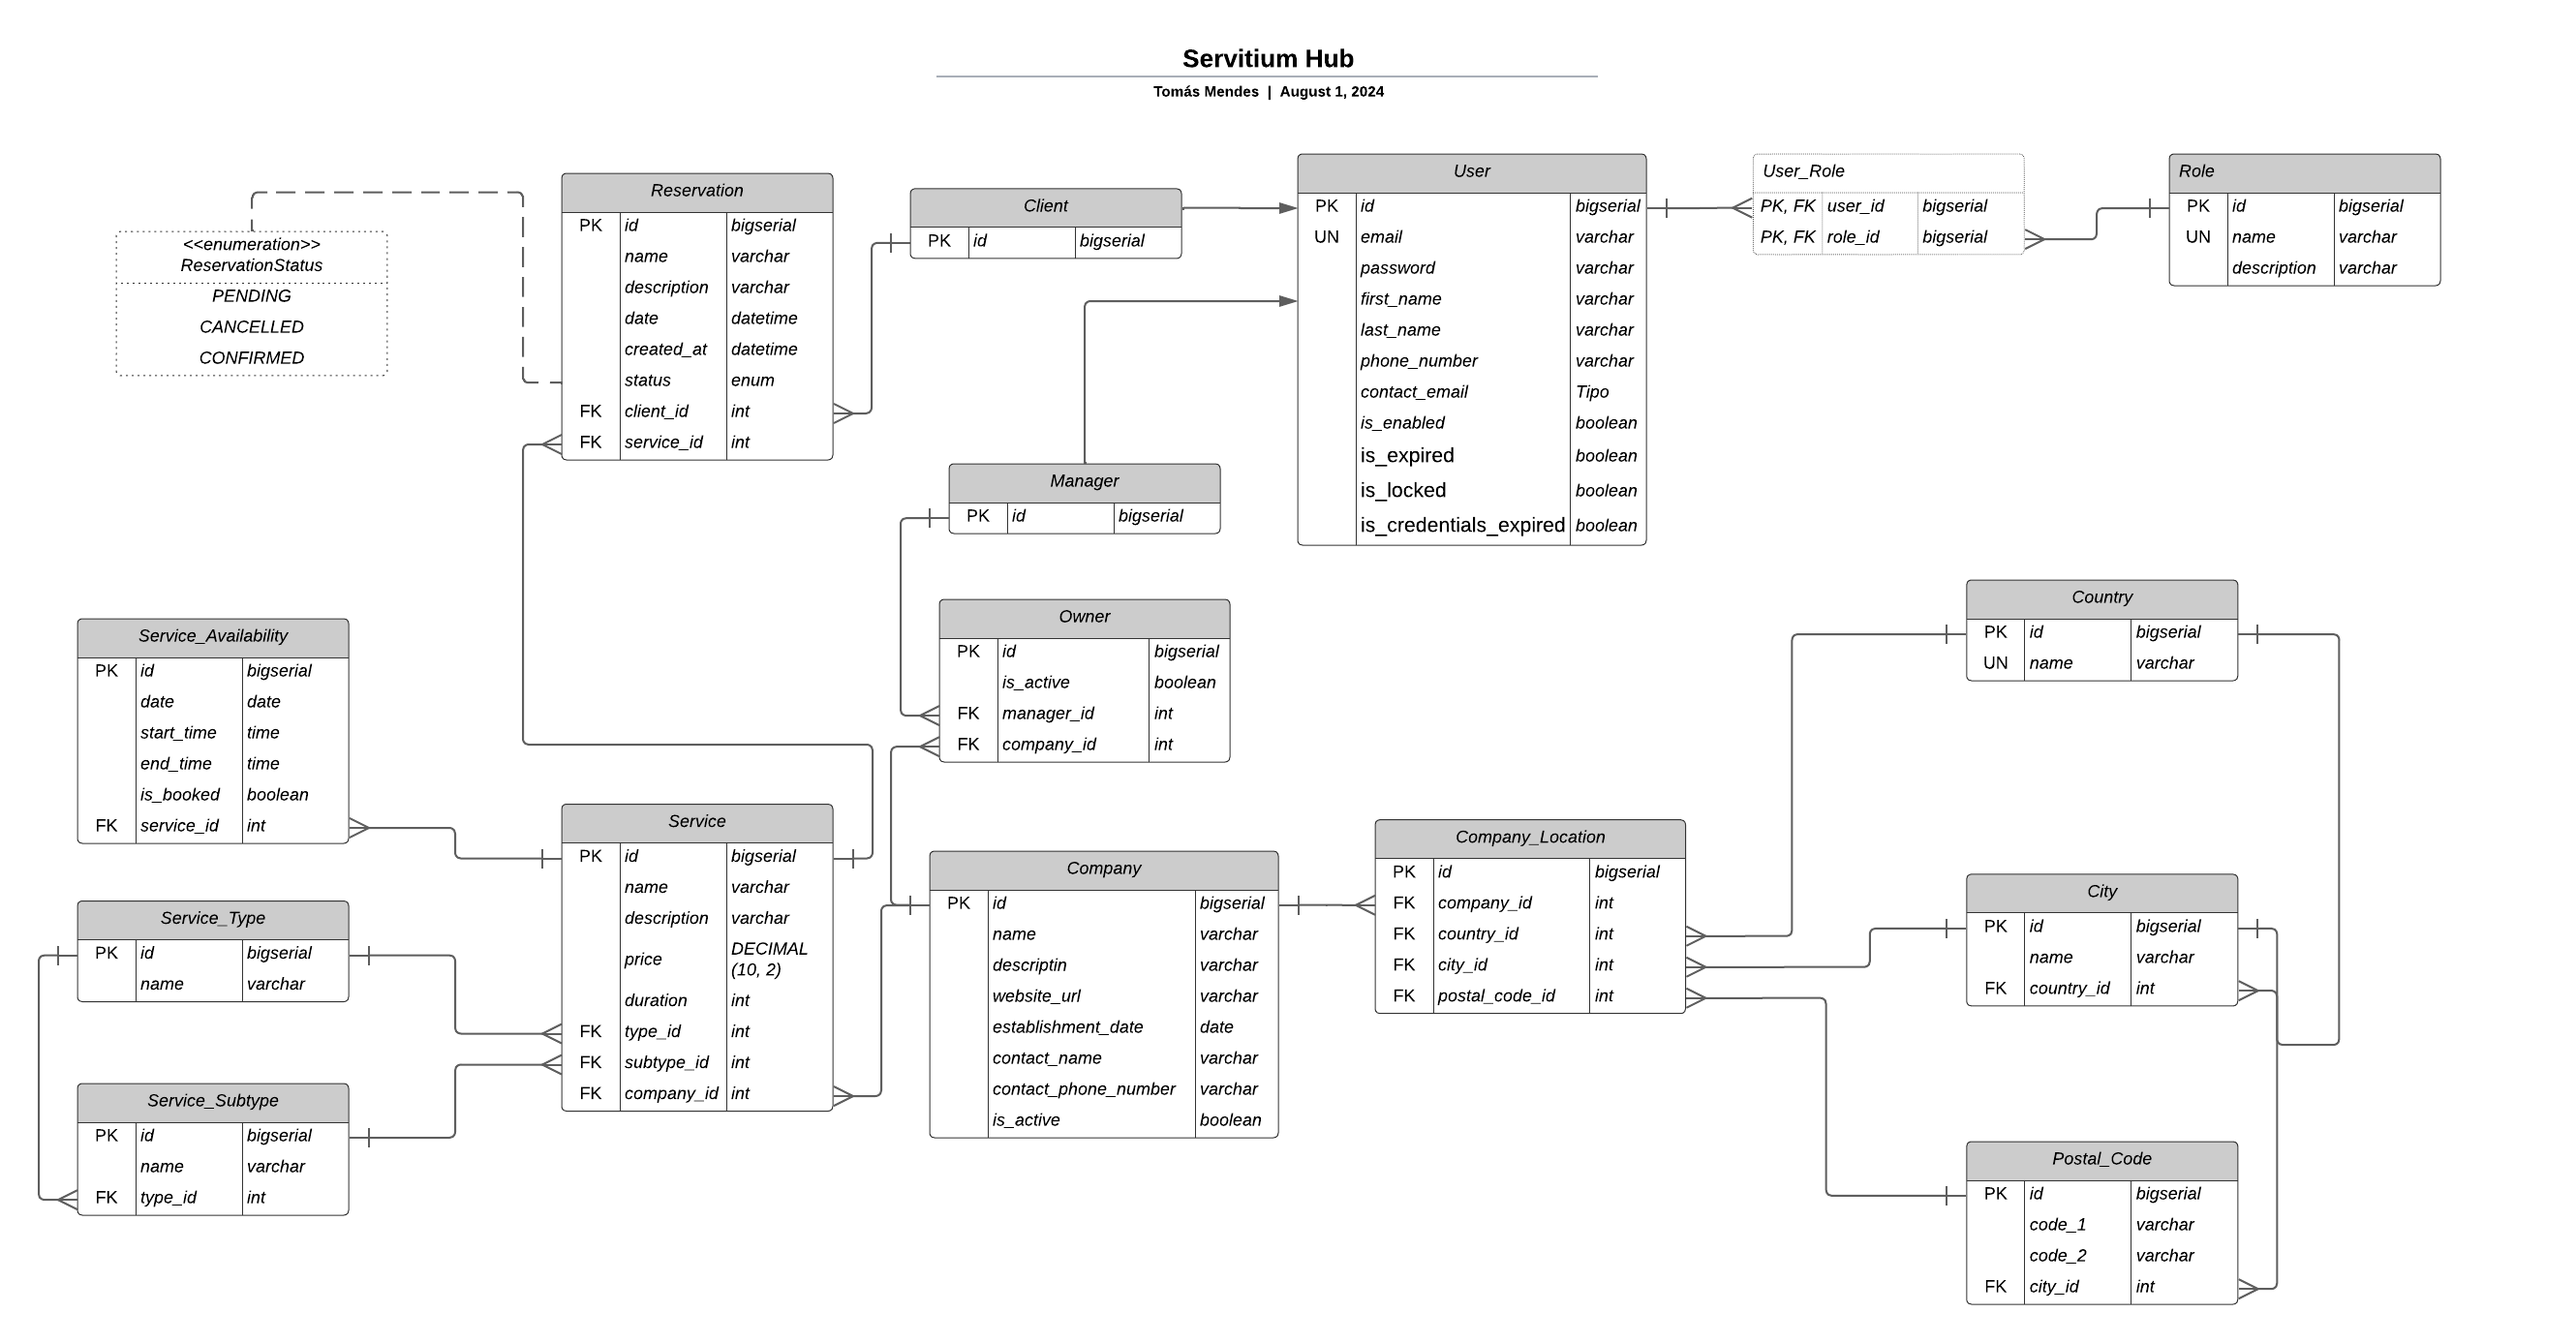
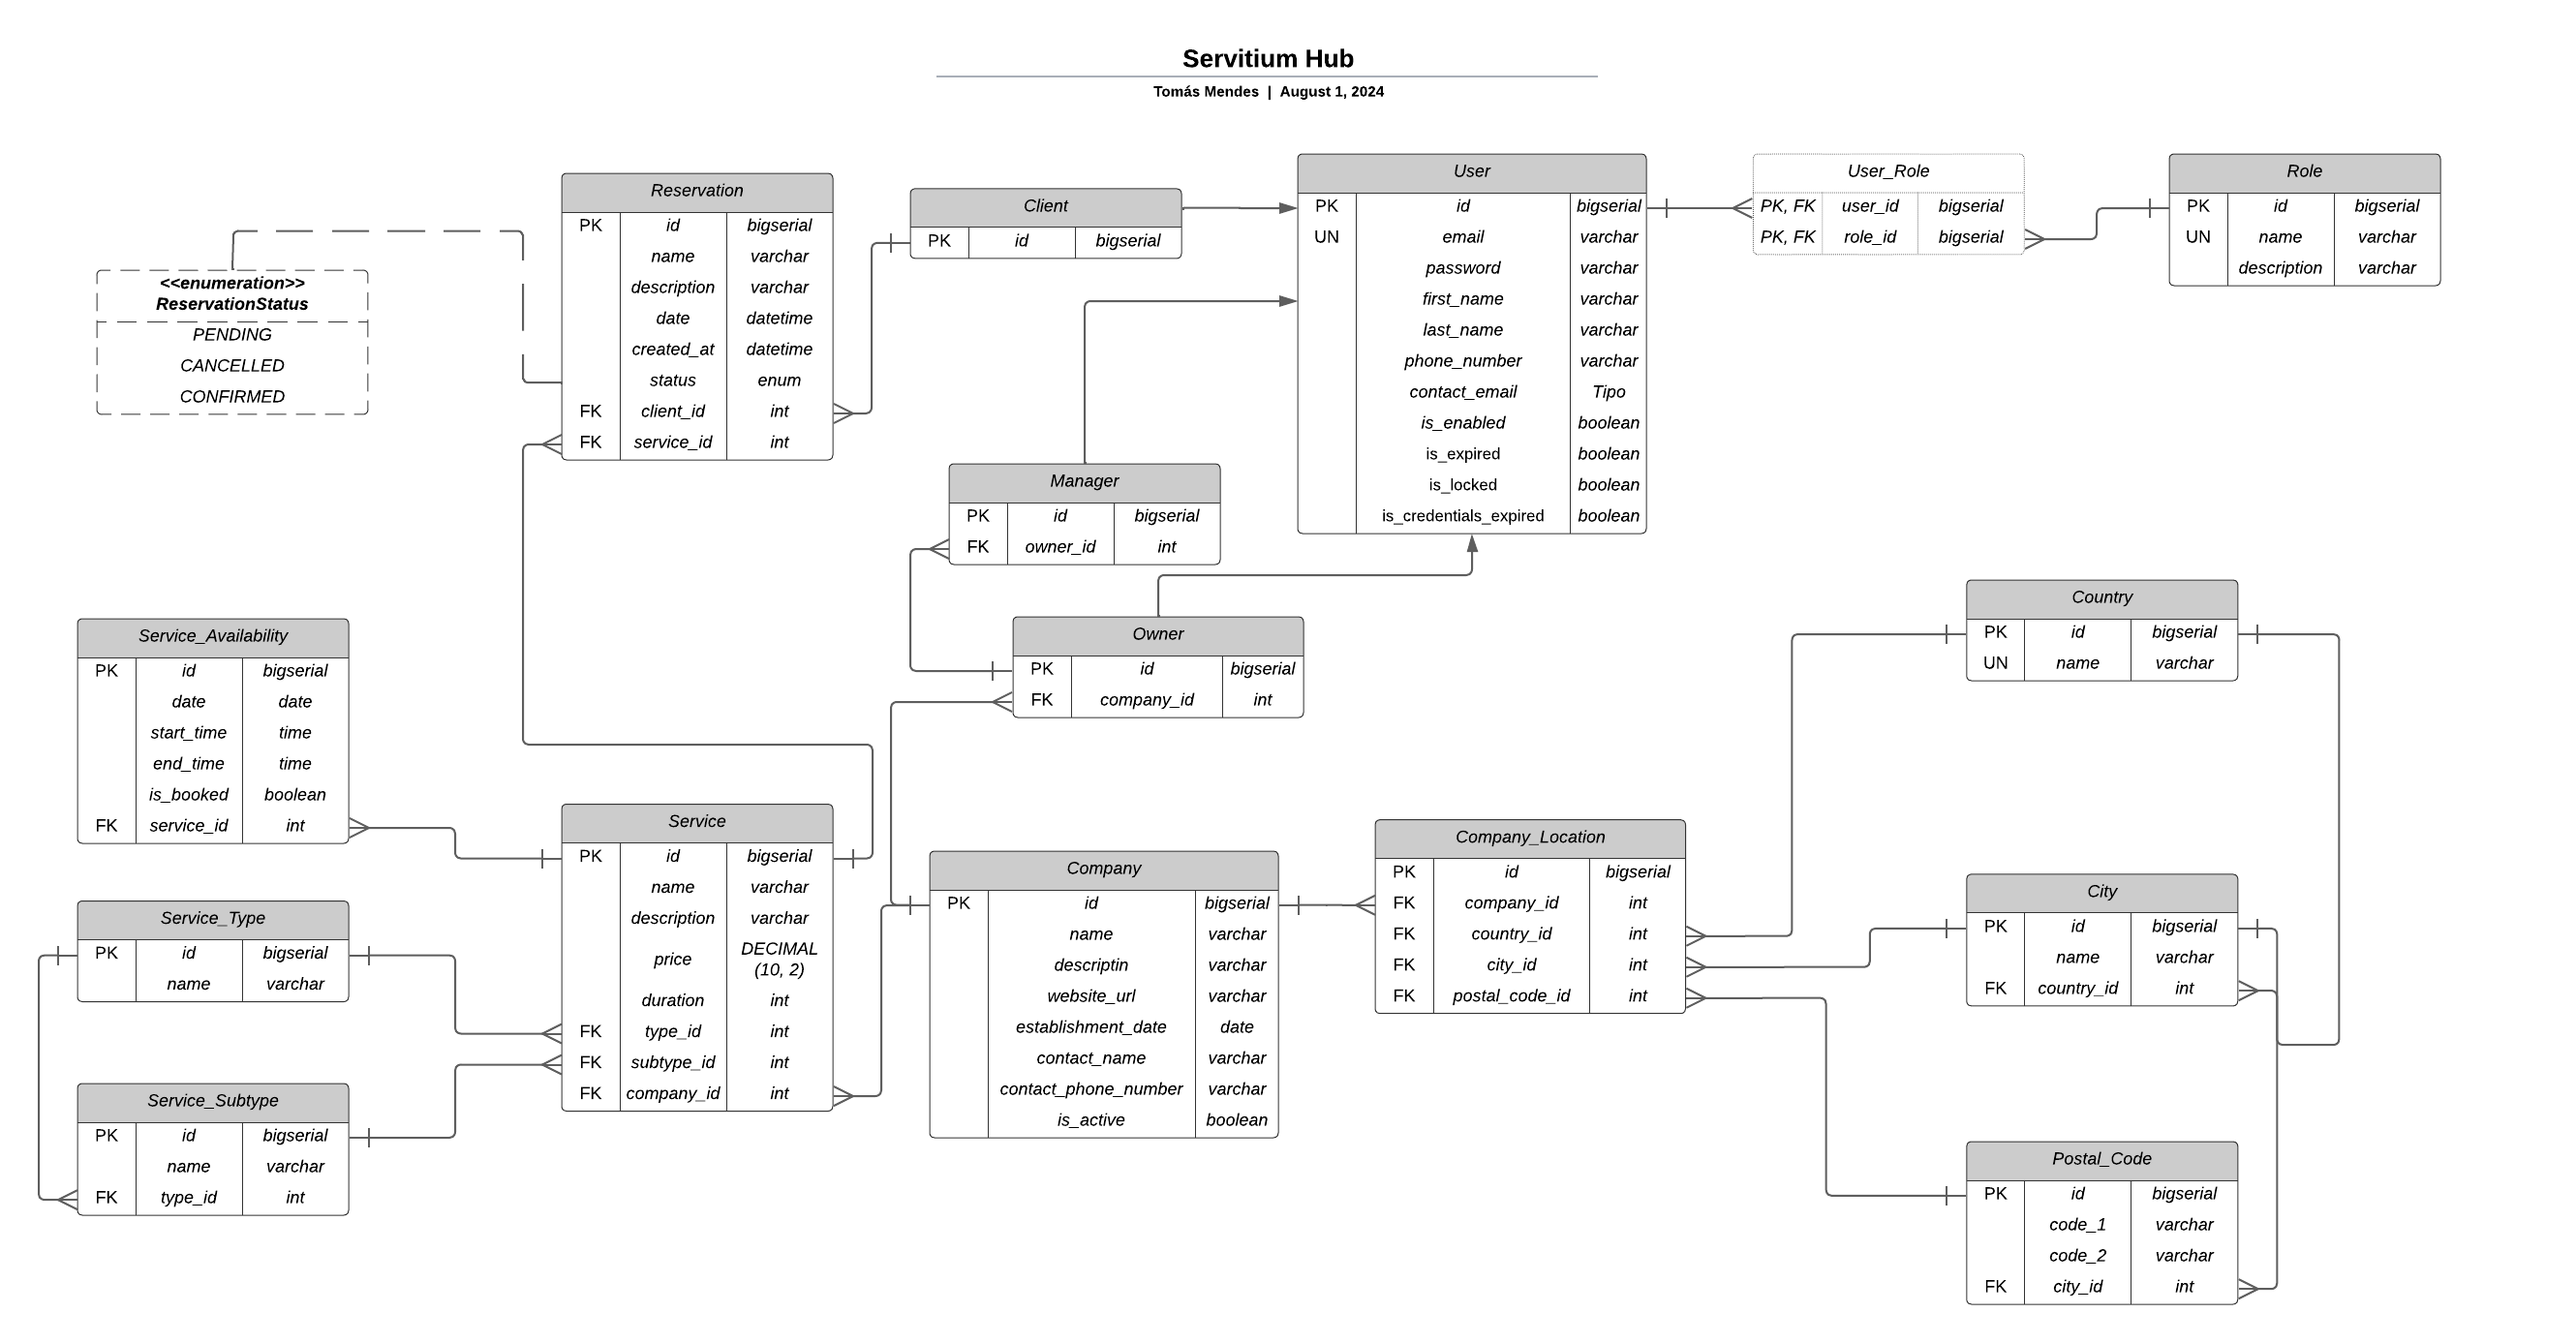
feat: add entities

diff --git a/domain/src/main/java/com/thm/gw/entities/User.java b/domain/src/main/java/com/thm/gw/entities/User.java
@@ -1,0 +1,88 @@
+package com.thm.gw.entities;
+
+import jakarta.persistence.*;
+import lombok.*;
+import org.springframework.security.core.userdetails.UserDetails;
+
+import java.util.HashSet;
+import java.util.Set;
+
+@Entity
+@Inheritance(strategy = InheritanceType.TABLE_PER_CLASS)
+@AllArgsConstructor
+@Getter
+@Setter
+@EqualsAndHashCode(callSuper = true)
+public abstract class User extends BaseEntity<Long> implements UserDetails {
+
+    @Column(name = "email", nullable = false, unique = true)
+    private String email;
+
+    @Column(name = "password", nullable = false)
+    private String password;
+
+    @Column(name = "first_name", nullable = false)
+    private String firstName;
+
+    @Column(name = "last_name", nullable = false)
+    private String lastName;
+
+    @Column(name = "phone_number", nullable = false)
+    private String phoneNumber;
+
+    @Column(name = "contact_email", nullable = false)
+    private String contactEmail;
+
+    @Column(name = "is_enabled", nullable = false)
+    private boolean isEnabled;
+
+    @Column(name = "is_expired", nullable = false)
+    private boolean isExpired;
+
+    @Column(name = "is_locked", nullable = false)
+    private boolean isLocked;
+
+    @Column(name = "is_credentials_expired", nullable = false)
+    private boolean isCredentialsExpired;
+
+    @ManyToMany(fetch = FetchType.EAGER)
+    @JoinTable(
+            name = "user_role",
+            joinColumns = { @JoinColumn(name = "user_id") },
+            inverseJoinColumns = { @JoinColumn(name = "role_id") }
+    )
+    private Set<Role> roles;
+
+    protected User() {
+        this.isExpired = false;
+        this.isLocked = false;
+        this.isCredentialsExpired = false;
+        this.isEnabled = true;
+        this.roles = new HashSet<>();
+    }
+
+    @Override
+    public String getUsername() {
+        return email;
+    }
+
+    @Override
+    public boolean isAccountNonExpired() {
+        return !isExpired;
+    }
+
+    @Override
+    public boolean isAccountNonLocked() {
+        return !isLocked;
+    }
+
+    @Override
+    public boolean isCredentialsNonExpired() {
+        return !isCredentialsExpired;
+    }
+
+    @Override
+    public boolean isEnabled() {
+        return isEnabled;
+    }
+}

diff --git a/domain/src/main/java/com/thm/gw/entities/Manager.java b/domain/src/main/java/com/thm/gw/entities/Manager.java
@@ -1,0 +1,14 @@
+package com.thm.gw.entities;
+
+import jakarta.persistence.*;
+
+@Entity
+@Table(name = "manager")
+public class Manager extends User {
+
+    @ManyToOne
+    @JoinColumn(name = "owner_id")
+    private Owner owner;
+
+    // Qualquer campo ou método específico para Manager pode ser adicionado aqui
+}

diff --git a/domain/src/main/java/com/thm/gw/entities/Owner.java b/domain/src/main/java/com/thm/gw/entities/Owner.java
@@ -1,0 +1,14 @@
+package com.thm.gw.entities;
+
+import jakarta.persistence.*;
+
+@Entity
+@Table(name = "owner")
+public class Owner extends User {
+
+    @ManyToOne
+    @JoinColumn(name = "company_id")
+    private Company company;
+
+    // Qualquer campo ou método específico para Owner pode ser adicionado aqui
+}

diff --git a/domain/src/main/java/com/thm/gw/entities/Client.java b/domain/src/main/java/com/thm/gw/entities/Client.java
@@ -1,0 +1,9 @@
+package com.thm.gw.entities;
+
+import jakarta.persistence.*;
+
+@Entity
+@Table(name = "client")
+public class Client extends User {
+    // Qualquer campo ou método específico para Client pode ser adicionado aqui
+}

diff --git a/domain/src/main/java/com/thm/gw/entities/CompanyLocation.java b/domain/src/main/java/com/thm/gw/entities/CompanyLocation.java
@@ -1,0 +1,4 @@
+package com.thm.gw.entities;
+
+public class CompanyLocation extends BaseEntity<Long> {
+}

diff --git a/domain/src/main/java/com/thm/gw/entities/Company.java b/domain/src/main/java/com/thm/gw/entities/Company.java
@@ -1,0 +1,4 @@
+package com.thm.gw.entities;
+
+public class Company extends BaseEntity<Long> {
+}

diff --git a/domain/src/main/java/com/thm/gw/entities/City.java b/domain/src/main/java/com/thm/gw/entities/City.java
@@ -1,0 +1,4 @@
+package com.thm.gw.entities;
+
+public class City extends BaseEntity<Long> {
+}

diff --git a/domain/src/main/java/com/thm/gw/entities/Role.java b/domain/src/main/java/com/thm/gw/entities/Role.java
@@ -1,0 +1,4 @@
+package com.thm.gw.entities;
+
+public class Role extends BaseEntity<Long> {
+}

diff --git a/domain/src/main/java/com/thm/gw/entities/ServiceAvailability.java b/domain/src/main/java/com/thm/gw/entities/ServiceAvailability.java
@@ -1,0 +1,4 @@
+package com.thm.gw.entities;
+
+public class ServiceAvailability {
+}

diff --git a/domain/src/main/java/com/thm/gw/entities/ServiceSubtype.java b/domain/src/main/java/com/thm/gw/entities/ServiceSubtype.java
@@ -1,0 +1,4 @@
+package com.thm.gw.entities;
+
+public class ServiceSubtype {
+}

diff --git a/domain/src/main/java/com/thm/gw/entities/ServiceType.java b/domain/src/main/java/com/thm/gw/entities/ServiceType.java
@@ -1,0 +1,4 @@
+package com.thm.gw.entities;
+
+public class ServiceType {
+}

diff --git a/domain/src/main/java/com/thm/gw/entities/PostalCode.java b/domain/src/main/java/com/thm/gw/entities/PostalCode.java
@@ -1,0 +1,4 @@
+package com.thm.gw.entities;
+
+public class PostalCode {
+}
